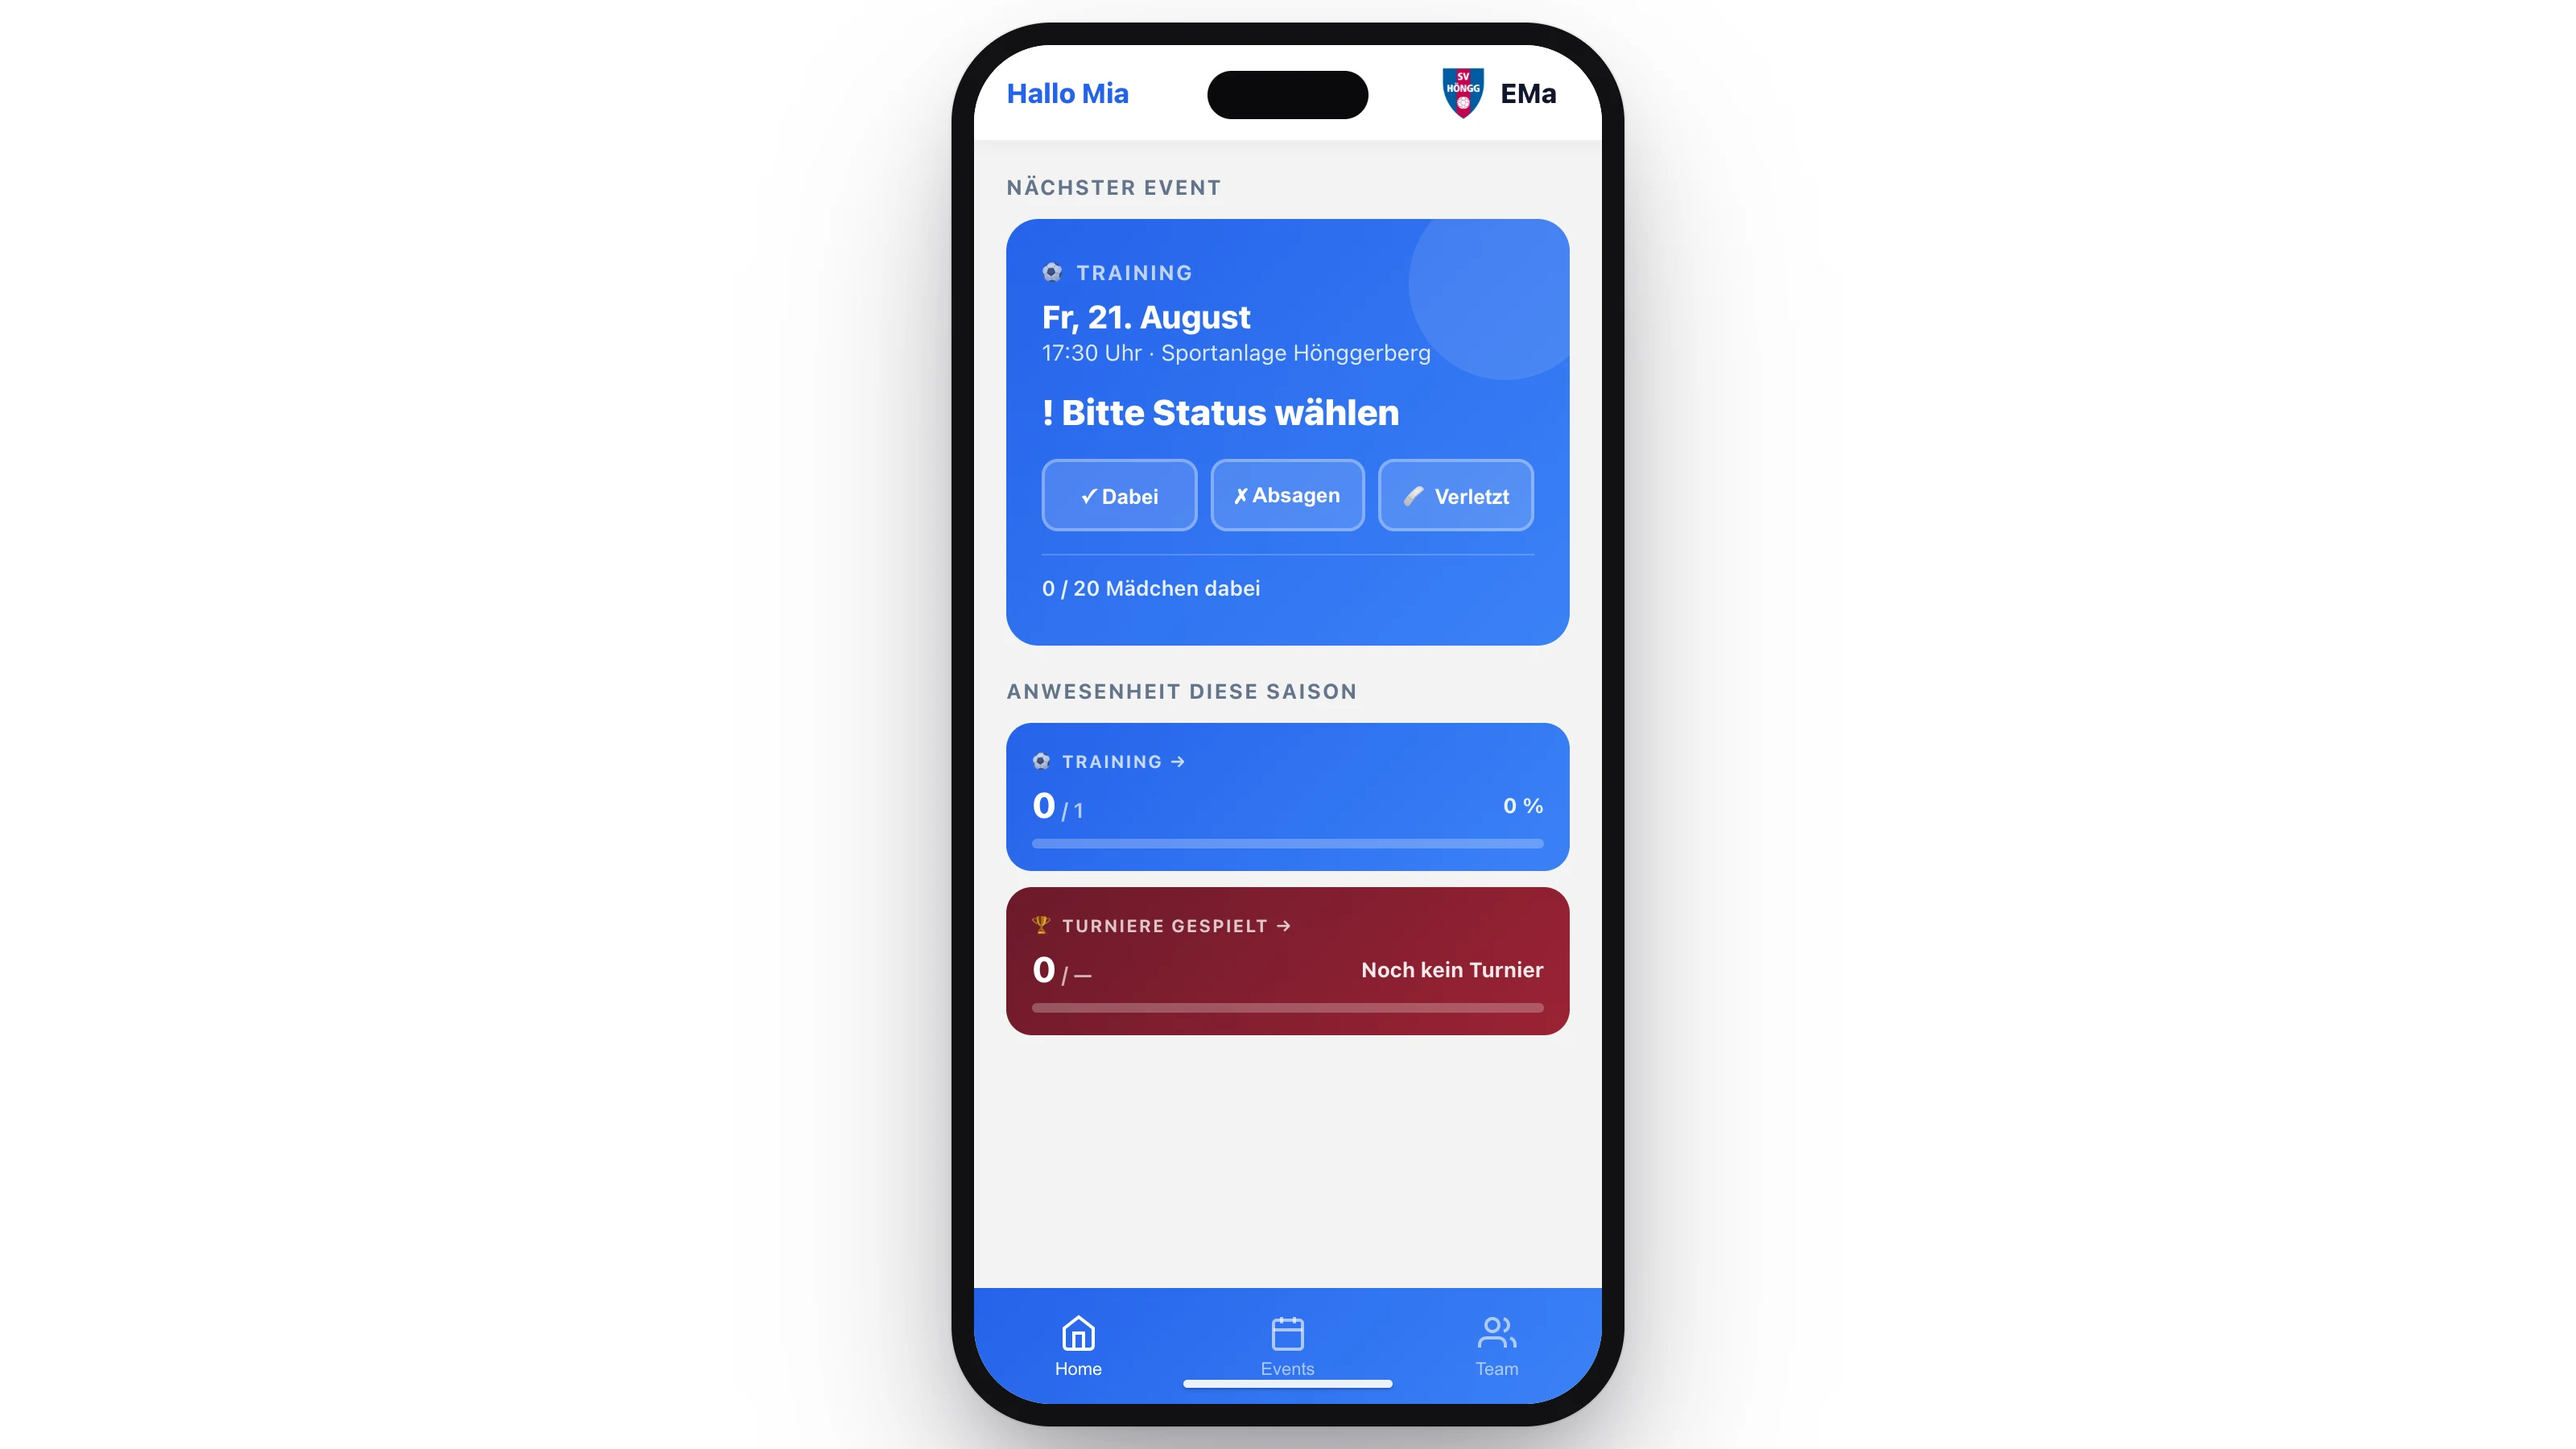
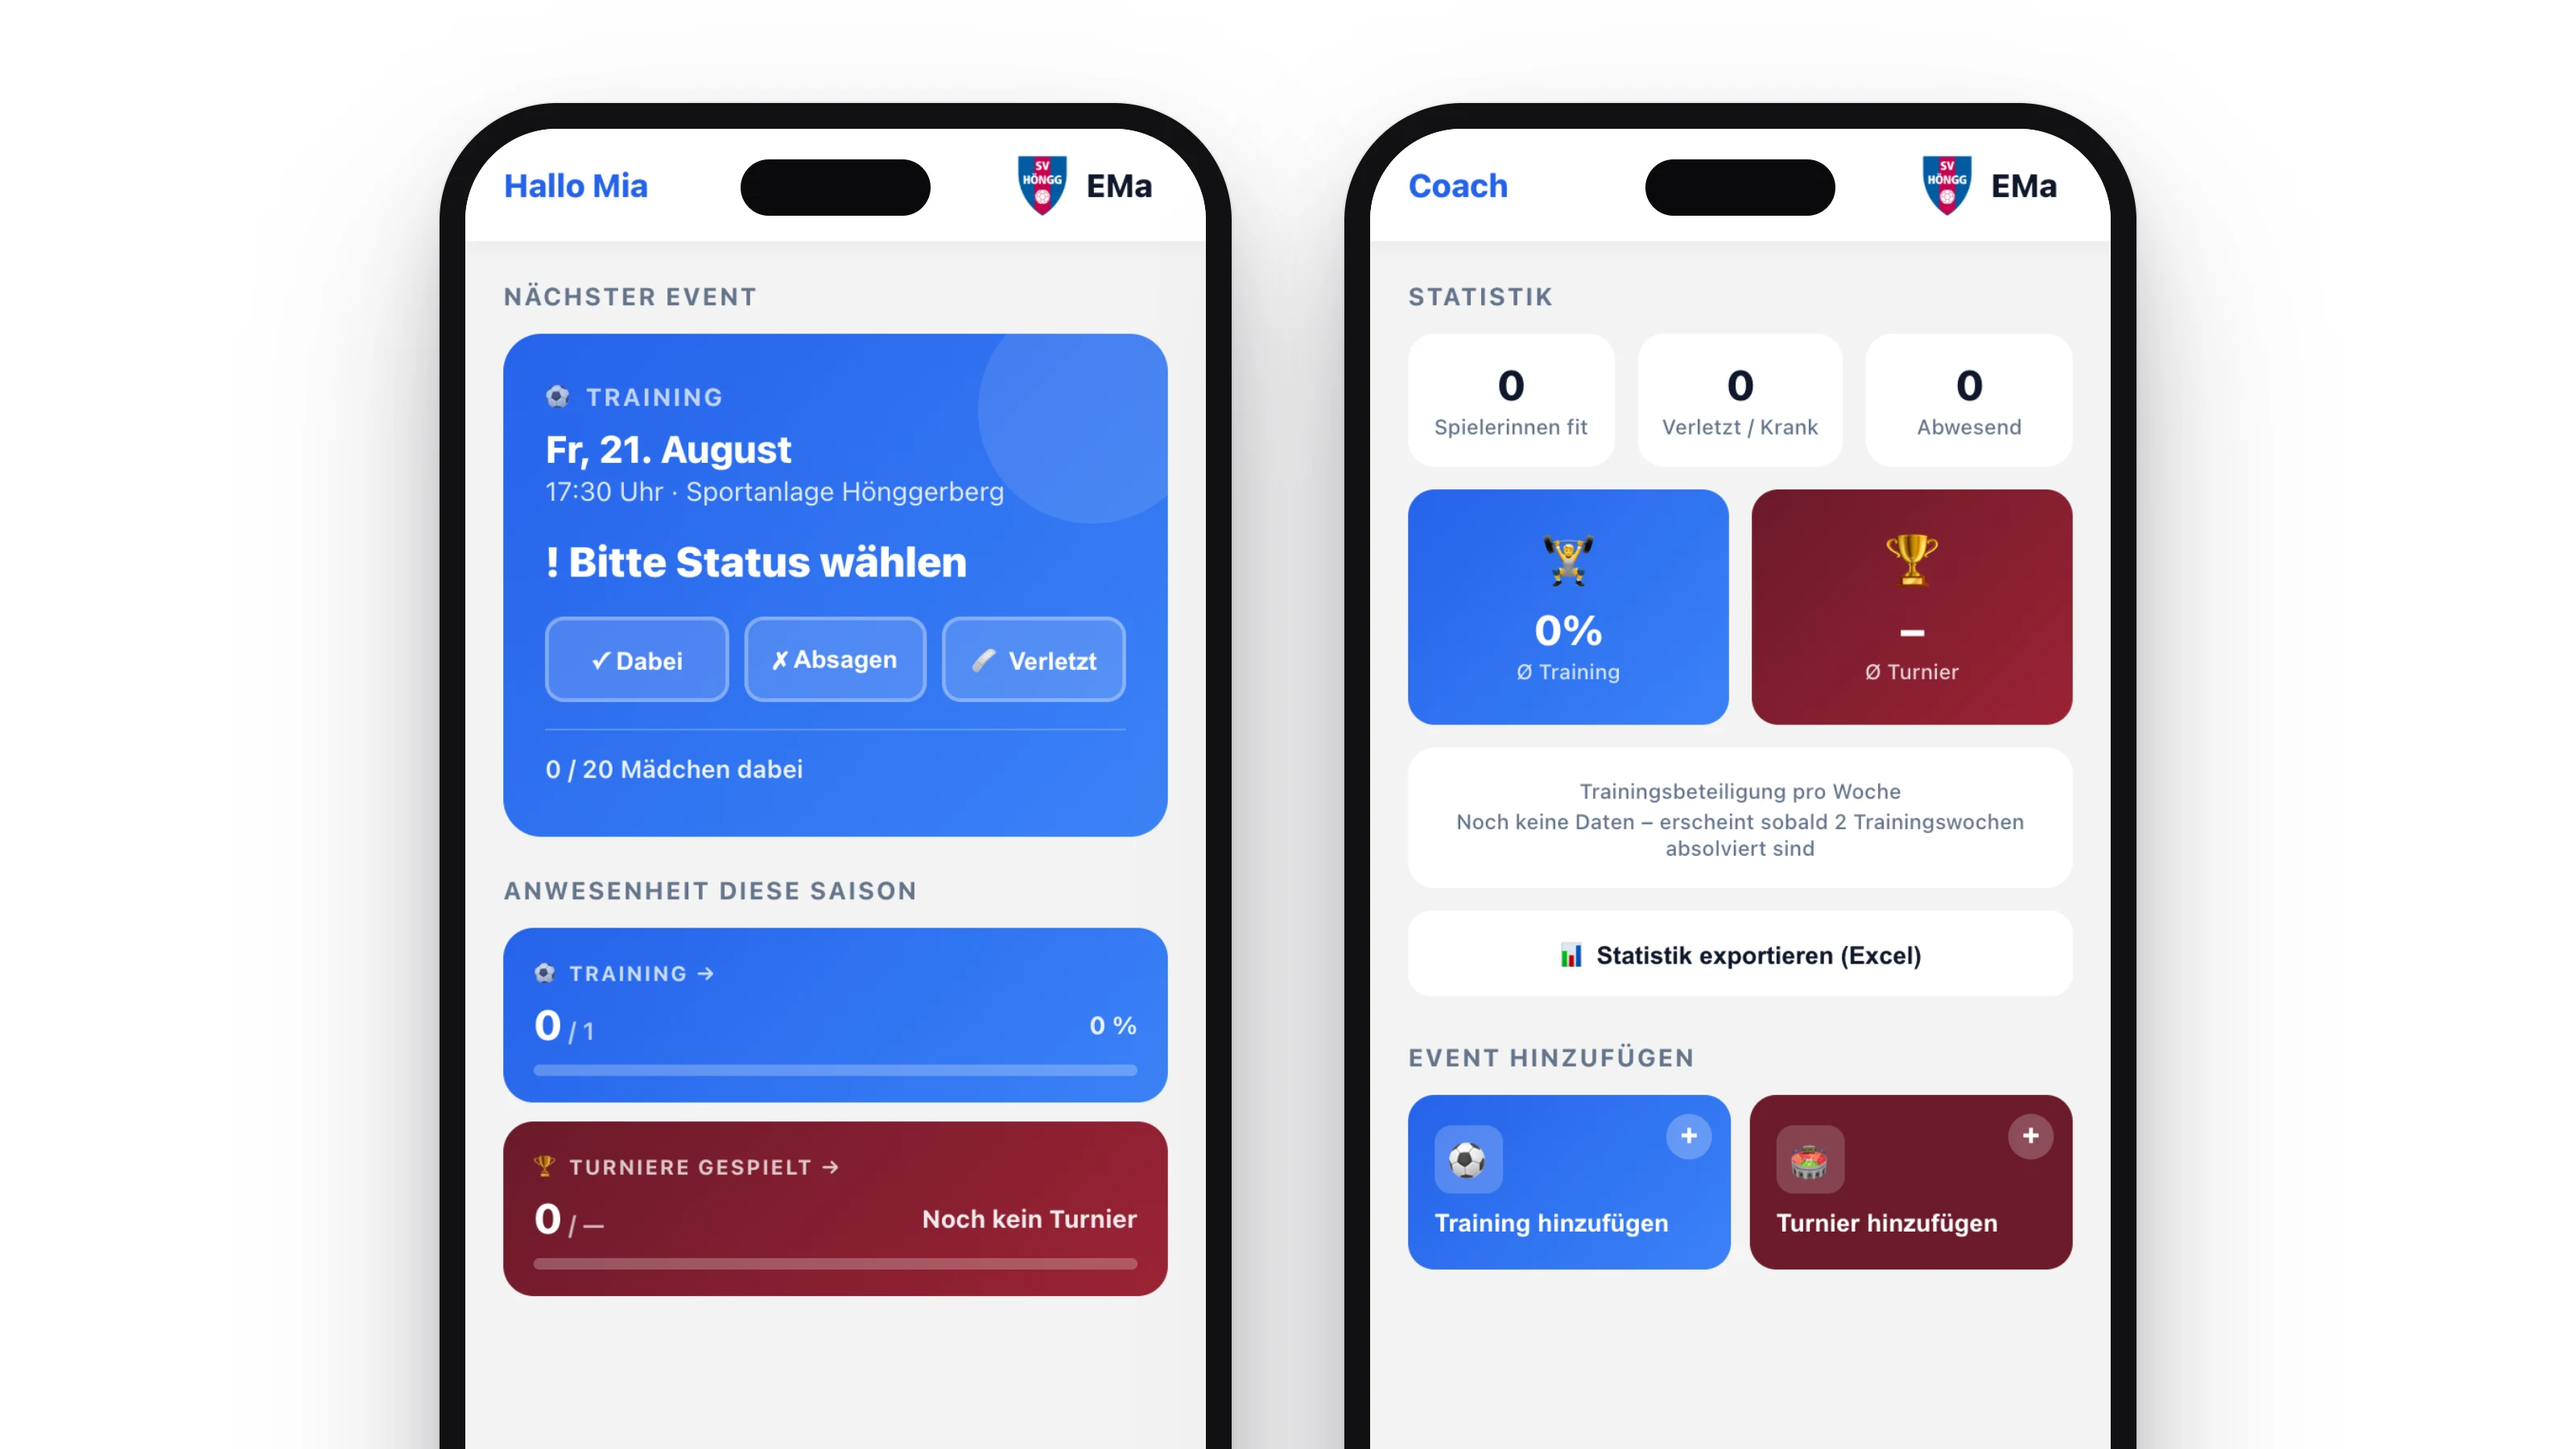
Merge girls team app screenshots into a single combined image
Replace the two-slide slider with one image showing both phones side by side, top-aligned with room to breathe, cropped at the bottom.

diff --git a/projekte.html b/projekte.html
@@ -1163,18 +1163,7 @@
 
       <div class="proj-item reveal delay-2" data-filter="produktentwicklung testing" style="grid-column:span 6;">
         <div class="proj-detail-card">
-          <div class="proj-slider">
-            <div id="girlsappTrack" class="proj-slider-track">
-              <img loading="lazy" src="img/projekt-girls-app/slide-01.webp" class="proj-slide" alt="Team-App SV Höngg – Bild 1" />
-              <img loading="lazy" src="img/projekt-girls-app/slide-02.webp" class="proj-slide" alt="Team-App SV Höngg – Bild 2" />
-            </div>
-            <button class="proj-slider-btn prev" onclick="girlsappSlide(-1)" aria-label="Zurück">&#8592;</button>
-            <button class="proj-slider-btn next" onclick="girlsappSlide(1)" aria-label="Weiter">&#8594;</button>
-            <div class="proj-slider-dots">
-              <span id="girlsappDot0" class="proj-dot active" onclick="girlsappSlideTo(0)"></span>
-              <span id="girlsappDot1" class="proj-dot" onclick="girlsappSlideTo(1)"></span>
-            </div>
-          </div>
+          <img loading="lazy" src="img/projekt-girls-app/slide-01.webp" class="proj-detail-img" alt="Team-App SV Höngg – Eltern-/Spielerinnen-Ansicht und Coach-Umgebung" />
           <div class="proj-detail-text">
             <div class="proj-detail-eyebrow">Projekt 25</div>
             <h2 class="proj-detail-title"><span data-en="Custom Team App Instead of a Paywall">Eigene Team-App statt Paywall</span> – <span style="white-space:nowrap">SV Höngg.</span></h2>
@@ -1334,7 +1323,6 @@ window.addEventListener('orientationchange', function() {
   });
 })();
   (function(){var cur=0,tot=3;function upd(){var t=document.getElementById('miraculixTrack');if(!t)return;t.style.transform='translateX(-'+(cur*100)+'%)';for(var j=0;j<tot;j++){var d=document.getElementById('miraculixDot'+j);if(d)d.classList.toggle('active',j===cur);}}window.miraculixSlide=function(d){cur=(cur+d+tot)%tot;upd();};window.miraculixSlideTo=function(i){cur=i;upd();};})();
-  (function(){var cur=0,tot=2;function upd(){var t=document.getElementById('girlsappTrack');if(!t)return;t.style.transform='translateX(-'+(cur*100)+'%)';for(var j=0;j<tot;j++){var d=document.getElementById('girlsappDot'+j);if(d)d.classList.toggle('active',j===cur);}}window.girlsappSlide=function(d){cur=(cur+d+tot)%tot;upd();};window.girlsappSlideTo=function(i){cur=i;upd();};})();
 </script>
 </body>
 </html>
